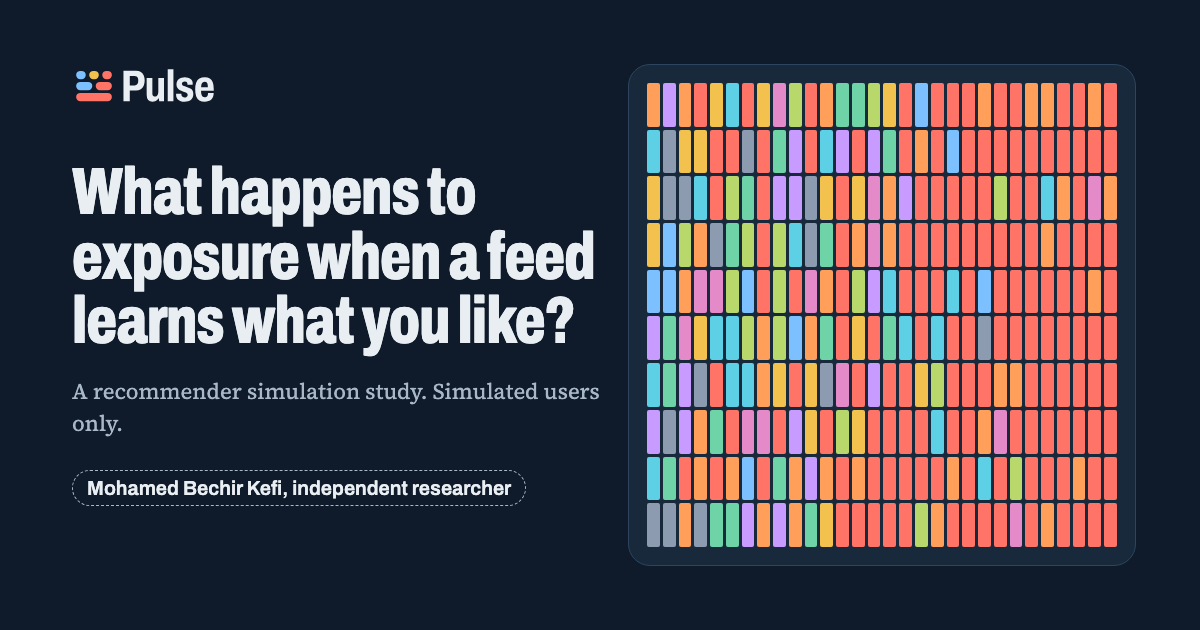
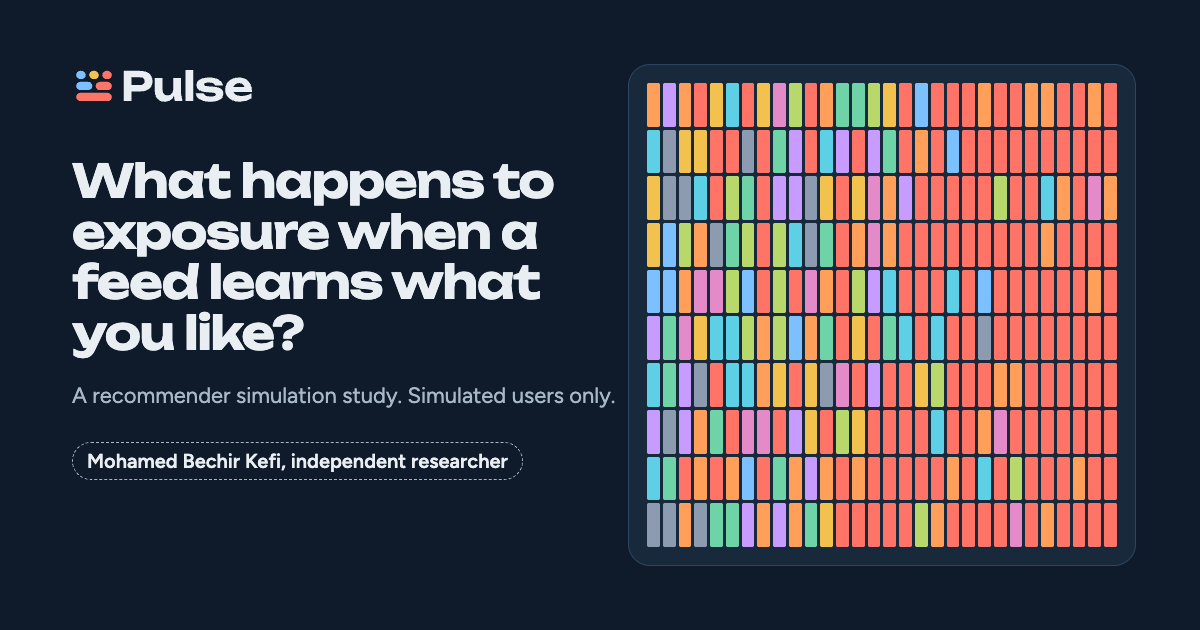
Demo: unique typeface pair across the labs (owner request 2026-11-26)

diff --git a/demo/src/style.css b/demo/src/style.css
@@ -9,8 +9,9 @@
   --conf: #7cc0ff; --expl: #f2c14e; --reg: #a9b8c6; --assume: #6fd3a8; --sand: #e58ac8;
   --h0: #e6eef4; --h1: #c4d6e6; --h2: #9dbcd8; --h3: #7099c0; --h4: #2e557f; --h5: #1a3a5e;
   --ink: #0f1b2a; --error: #ffb3ab;
-  --display: "Archivo Variable", "Arial Narrow", sans-serif;
-  --read: "Source Serif 4 Variable", Georgia, serif;
+  --display: "Unbounded Variable", "Arial Black", sans-serif;
+  --ui: "Figtree Variable", "Helvetica Neue", Arial, sans-serif;
+  --read: var(--ui);
   --ease-out: cubic-bezier(0.23, 1, 0.32, 1);
   --ease-in-out: cubic-bezier(0.77, 0, 0.175, 1);
   --tp0: #7cc0ff; --tp1: #f2c14e; --tp2: #6fd3a8; --tp3: #c79bff; --tp4: #ff7466;
@@ -19,13 +20,13 @@
 }
 * { box-sizing: border-box; }
 html { -webkit-text-size-adjust: 100%; scroll-padding-top: 72px; background: var(--gallery); }
-body { margin: 0; background: var(--gallery); color: var(--fg); font: 400 1.0625rem/1.65 var(--read); font-optical-sizing: auto; }
-h1, h2, h3 { font-family: var(--display); line-height: 1.1; letter-spacing: -0.01em; text-wrap: balance; }
-h2 { font-size: clamp(1.75rem, 3.4vw, 2.4rem); font-weight: 760; font-stretch: 78%; margin: 0 0 1rem; }
-h3 { font-size: 1.3rem; font-weight: 680; font-stretch: 88%; margin: 1.6rem 0 0.6rem; }
+body { margin: 0; background: var(--gallery); color: var(--fg); font: 400 1.0625rem/1.62 var(--read); }
+h1, h2, h3 { font-family: var(--display); line-height: 1.15; letter-spacing: -0.015em; text-wrap: balance; }
+h2 { font-size: clamp(1.4rem, 2.6vw, 1.9rem); font-weight: 600; margin: 0 0 1rem; }
+h3 { font-size: 1.08rem; font-weight: 560; line-height: 1.3; letter-spacing: -0.01em; margin: 1.6rem 0 0.6rem; }
 p, li, dd, figcaption { max-width: 68ch; }
 a { color: var(--cue); text-underline-offset: 0.18em; text-decoration-thickness: 1px; }
-code { font-family: var(--display); font-size: 0.92em; font-stretch: 92%; color: var(--fg); background: var(--rack-2); padding: 0.05em 0.35em; border-radius: 5px; overflow-wrap: anywhere; }
+code { font-family: var(--ui); font-size: 0.92em; color: var(--fg); background: var(--rack-2); padding: 0.05em 0.35em; border-radius: 5px; overflow-wrap: anywhere; }
 :focus-visible { outline: 2px solid var(--cue); outline-offset: 3px; border-radius: 4px; }
 .wrap { max-width: 74rem; margin: 0 auto; padding: 0 16px; }
 @media (min-width: 48rem) { .wrap { padding: 0 32px; } }
@@ -38,7 +39,7 @@ code { font-family: var(--display); font-size: 0.92em; font-stretch: 92%; color:
 @media (min-width: 48rem) { .topbar-in { padding: 0 32px; } }
 .brand { display: inline-flex; align-items: center; min-height: 44px; flex: none; }
 .brand img { display: block; height: 22px; width: auto; }
-.topbar nav { display: flex; gap: 0.15rem; overflow-x: auto; scrollbar-width: none; margin-left: auto; font: 560 0.92rem/1 var(--display); font-stretch: 92%; }
+.topbar nav { display: flex; gap: 0.15rem; overflow-x: auto; scrollbar-width: none; margin-left: auto; font: 560 0.92rem/1 var(--ui); }
 .topbar nav::-webkit-scrollbar { display: none; }
 .topbar nav a { color: var(--muted); text-decoration: none; padding: 0 0.7rem; min-height: 44px; display: inline-flex; align-items: center; border-radius: 8px; white-space: nowrap; transition: color 160ms ease, background-color 160ms ease; }
 @media (hover: hover) and (pointer: fine) { .topbar nav a:hover { color: var(--fg); background: var(--rack); } }
@@ -48,19 +49,19 @@ code { font-family: var(--display); font-size: 0.92em; font-stretch: 92%; color:
 .hero { padding: clamp(2rem, 6vw, 4.5rem) 0 clamp(2.5rem, 6vw, 4rem); border-bottom: 1px solid var(--edge-soft); }
 .hero-in { display: grid; gap: clamp(1.75rem, 4vw, 3.5rem); align-items: center; }
 @media (min-width: 64rem) { .hero-in { grid-template-columns: minmax(0, 5fr) minmax(0, 6fr); } }
-.kicker { margin: 0 0 0.9rem; color: var(--muted); font: 560 1rem/1.3 var(--display); font-stretch: 92%; }
-.hero h1 { font-size: clamp(2.3rem, 5.2vw, 4rem); font-weight: 800; font-stretch: 72%; line-height: 0.98; margin: 0 0 1.25rem; letter-spacing: -0.015em; }
+.kicker { margin: 0 0 0.9rem; color: var(--muted); font: 560 1rem/1.3 var(--ui); }
+.hero h1 { font-size: clamp(1.75rem, 3.5vw, 2.7rem); font-weight: 640; line-height: 1.1; margin: 0 0 1.25rem; letter-spacing: -0.018em; }
 .answer { font-size: clamp(1.15rem, 1.8vw, 1.3rem); line-height: 1.55; margin: 0 0 1rem; }
 .dek { color: var(--muted); margin: 0; font-size: 1rem; }
 
 .monitor { margin: 0; background: var(--rack); border: 1px solid var(--edge); border-radius: 14px; padding: 14px; }
 .monitor-bar { display: flex; flex-wrap: wrap; gap: 0.6rem 1rem; align-items: center; justify-content: space-between; margin-bottom: 12px; }
 .segmented { position: relative; display: grid; grid-template-columns: 1fr 1fr; background: var(--gallery); border: 1px solid var(--edge); border-radius: 10px; padding: 3px; flex: 1 1 18rem; max-width: 24rem; }
-.segmented button { position: relative; z-index: 1; min-height: 40px; border: 0; background: transparent; color: var(--muted); font: 600 0.95rem/1.1 var(--display); font-stretch: 90%; border-radius: 7px; cursor: pointer; padding: 0 0.6rem; transition: color 200ms ease; }
+.segmented button { position: relative; z-index: 1; min-height: 40px; border: 0; background: transparent; color: var(--muted); font: 600 0.95rem/1.1 var(--ui); border-radius: 7px; cursor: pointer; padding: 0 0.6rem; transition: color 200ms ease; }
 .segmented button[aria-pressed="true"] { color: var(--fg); }
 .seg-ind { position: absolute; z-index: 0; top: 3px; bottom: 3px; left: 3px; width: calc(50% - 3px); border-radius: 7px; background: rgba(124, 192, 255, 0.2); box-shadow: inset 0 -3px 0 var(--cue); transition: transform 240ms var(--ease-out), background-color 240ms ease, box-shadow 240ms ease; }
 .seg-ind.similarity { transform: translateX(100%); background: rgba(255, 116, 102, 0.2); box-shadow: inset 0 -3px 0 var(--tally); }
-.illus-tag { margin: 0; display: inline-flex; align-items: center; gap: 0.45rem; font: 560 0.88rem/1.2 var(--display); color: var(--fg); border: 1px dashed var(--muted); border-radius: 999px; padding: 0.3rem 0.7rem; }
+.illus-tag { margin: 0; display: inline-flex; align-items: center; gap: 0.45rem; font: 560 0.88rem/1.2 var(--ui); color: var(--fg); border: 1px dashed var(--muted); border-radius: 999px; padding: 0.3rem 0.7rem; }
 .lamp { width: 0.55rem; height: 0.55rem; border-radius: 50%; background: var(--expl); flex: none; }
 
 .wall { position: relative; display: grid; grid-template-columns: repeat(24, minmax(0, 1fr)); gap: 3px; background: var(--gallery); border-radius: 8px; padding: 6px; overflow: hidden; }
@@ -90,14 +91,14 @@ main > section.wrap, main > .wrap > section { padding-top: clamp(2.5rem, 6vw, 4.
 .meters-fig { margin: 1.5rem 0 0; }
 .meters { display: grid; gap: 10px; background: var(--rack); border: 1px solid var(--edge); border-radius: 14px; padding: clamp(14px, 3vw, 26px); }
 .meter { display: grid; grid-template-columns: minmax(7.5rem, 11rem) minmax(0, 1fr) auto; gap: 0.5rem 1rem; align-items: center; }
-.meter-name { font: 640 1.02rem/1.2 var(--display); font-stretch: 88%; }
+.meter-name { font: 640 1.02rem/1.2 var(--ui); }
 .meter-track { position: relative; height: 18px; border-radius: 4px; background: var(--gallery); overflow: hidden;
   background-image: repeating-linear-gradient(90deg, transparent 0 calc(10% - 2px), var(--rack) calc(10% - 2px) 10%); }
 .meter-fill { position: absolute; inset: 0; transform-origin: 0 50%; transform: scaleX(var(--v)); background: var(--fg); border-radius: 4px; }
 .m-random .meter-fill { background: var(--cue); }
 .m-similarity .meter-fill { background: var(--tally); }
 .m-popularity .meter-fill, .m-bandit .meter-fill, .m-mmr .meter-fill { background: #8fa4b9; }
-.meter-val { font: 600 1rem/1 var(--display); font-variant-numeric: tabular-nums; white-space: nowrap; }
+.meter-val { font: 600 1rem/1 var(--ui); font-variant-numeric: tabular-nums; white-space: nowrap; }
 .meters.armed .meter-fill { transition: transform 700ms var(--ease-out); transition-delay: calc(var(--i) * 70ms + 80ms); }
 .meters.armed:not(.in) .meter-fill { transform: scaleX(0); }
 @media (max-width: 36rem) {
@@ -107,7 +108,7 @@ main > section.wrap, main > .wrap > section { padding-top: clamp(2.5rem, 6vw, 4.
 .meters-fig figcaption, .figure figcaption { color: var(--muted); font-size: 0.95rem; margin-top: 0.8rem; }
 
 /* Label lamps: sentence case, one lamp colour and one outline style per kind. */
-.label-tag { display: inline-flex; align-items: center; gap: 0.45rem; font: 600 0.86rem/1.2 var(--display); font-stretch: 92%; color: var(--fg); padding: 0.28rem 0.65rem 0.28rem 0.55rem; border-radius: 999px; border: 1px solid var(--edge); background: var(--gallery); margin: 0 0.5rem 0.3rem 0; vertical-align: middle; letter-spacing: 0; }
+.label-tag { display: inline-flex; align-items: center; gap: 0.45rem; font: 600 0.86rem/1.2 var(--ui); color: var(--fg); padding: 0.28rem 0.65rem 0.28rem 0.55rem; border-radius: 999px; border: 1px solid var(--edge); background: var(--gallery); margin: 0 0.5rem 0.3rem 0; vertical-align: middle; letter-spacing: 0; }
 .label-tag::before { content: ""; width: 0.55rem; height: 0.55rem; border-radius: 50%; background: currentColor; flex: none; }
 .lab-conf { border-color: var(--conf); } .lab-conf::before { background: var(--conf); }
 .lab-expl { border: 1px dashed var(--expl); } .lab-expl::before { background: var(--expl); }
@@ -127,11 +128,11 @@ h2 .label-tag, h3 .label-tag { font-size: 0.82rem; }
 .lab-reg-panel::before { background: repeating-linear-gradient(180deg, var(--reg) 0 3px, transparent 3px 7px); }
 .lab-expl-panel { border-style: dashed; border-color: #4a5d72; }
 .lab-reg-panel { border-style: dotted; border-color: #5a6d82; }
-.panel h3 { margin: 0.5rem 0 0.4rem; font-size: 1.35rem; }
+.panel h3 { margin: 0.5rem 0 0.4rem; font-size: clamp(1rem, 1.6vw, 1.12rem); }
 .panel > p { margin: 0.45rem 0; }
 .panel.error { color: var(--error); border-color: var(--error); }
 .panel.error::before { background: var(--error); }
-.badge { display: inline-block; font: 560 0.88rem/1.3 var(--display); font-stretch: 92%; color: var(--muted); border: 1px solid var(--edge); border-radius: 6px; padding: 0.15rem 0.5rem; }
+.badge { display: inline-block; font: 560 0.88rem/1.3 var(--ui); color: var(--muted); border: 1px solid var(--edge); border-radius: 6px; padding: 0.15rem 0.5rem; }
 .panel .meta { margin-top: 0.8rem; }
 
 /* Tables. */
@@ -139,9 +140,9 @@ h2 .label-tag, h3 .label-tag { font-size: 0.82rem; }
 table { border-collapse: collapse; width: 100%; font-variant-numeric: tabular-nums; }
 caption { text-align: left; color: var(--muted); padding: 0 0 0.6rem; font-size: 0.95rem; }
 th, td { text-align: left; padding: 0.55rem 0.7rem; border-bottom: 1px solid var(--edge-soft); vertical-align: middle; }
-thead th { font: 600 0.9rem/1.25 var(--display); font-stretch: 92%; color: var(--muted); border-bottom-color: var(--edge); }
+thead th { font: 600 0.9rem/1.25 var(--ui); color: var(--muted); border-bottom-color: var(--edge); }
 tbody th { font-weight: 400; font-size: 0.98rem; }
-td { font-family: var(--display); font-size: 1rem; }
+td { font-family: var(--ui); font-size: 1rem; }
 td.num { white-space: nowrap; font-weight: 600; }
 .glyph-col { width: 172px; }
 svg.glyph { display: block; }
@@ -151,7 +152,7 @@ svg .pt { fill: var(--fg); }
 svg .grid { stroke: var(--edge-soft); stroke-width: 1; }
 svg .band { fill: var(--band); }
 svg .frozen { stroke: var(--muted); stroke-width: 1.2; stroke-dasharray: 5 4; }
-svg .tick, svg .axis { fill: currentColor; color: var(--muted); font: 500 12px var(--display); font-variant-numeric: tabular-nums; }
+svg .tick, svg .axis { fill: currentColor; color: var(--muted); font: 500 12px var(--ui); font-variant-numeric: tabular-nums; }
 svg .axis { color: var(--fg); font-size: 13px; }
 svg .line { fill: none; stroke-width: 2; }
 .sa .line, .line.sa { stroke: var(--a); } .sa .ci { stroke: var(--a); } .sa .pt { fill: var(--a); }
@@ -165,7 +166,7 @@ svg .mark { fill: none; stroke: var(--fg); stroke-width: 1.5; }
 .figure figcaption { max-width: 68ch; }
 svg.chart { width: 100%; height: auto; max-width: 760px; display: block; }
 .lr-fig svg.chart { background: var(--rack); border: 1px solid var(--edge-soft); border-radius: 14px; }
-.legend { font: 500 0.92rem/1.4 var(--display); color: var(--muted); display: flex; flex-wrap: wrap; gap: 0.35rem 1rem; align-items: center; }
+.legend { font: 500 0.92rem/1.4 var(--ui); color: var(--muted); display: flex; flex-wrap: wrap; gap: 0.35rem 1rem; align-items: center; }
 .key { font-weight: 640; }
 .key.sa { color: var(--a); } .key.sb { color: var(--b); }
 .sw { display: inline-block; width: 1rem; height: 1rem; border-radius: 3px; vertical-align: middle; border: 1px solid var(--edge); }
@@ -185,9 +186,9 @@ table.heat td { text-align: center; white-space: nowrap; border-radius: 6px; fon
 .lr-fig.armed:not(.in) .series { opacity: 0; }
 
 dl.assumptions div { display: grid; grid-template-columns: minmax(9rem, 1fr) 2fr; gap: 0.75rem; padding: 0.6rem 0; border-bottom: 1px solid var(--edge-soft); }
-dl.assumptions dt { font: 640 1rem/1.4 var(--display); font-stretch: 92%; } dl.assumptions dd { margin: 0; }
+dl.assumptions dt { font: 640 1rem/1.4 var(--ui); } dl.assumptions dd { margin: 0; }
 details { margin-top: 1rem; }
-summary { cursor: pointer; font: 600 1rem/1.4 var(--display); min-height: 44px; display: flex; align-items: center; }
+summary { cursor: pointer; font: 600 1rem/1.4 var(--ui); min-height: 44px; display: flex; align-items: center; }
 ul { padding-left: 1.2rem; }
 li { margin: 0.3rem 0; }
 
@@ -195,10 +196,10 @@ li { margin: 0.3rem 0; }
 .sandbox { background: var(--rack); border: 1px solid var(--edge); border-radius: 18px; padding: clamp(1rem, 3vw, 2rem); margin: clamp(2.5rem, 6vw, 4.5rem) 0 0; }
 .sandbox > h2 { margin-top: 0.4rem; }
 .controls { display: grid; grid-template-columns: repeat(auto-fill, minmax(13rem, 1fr)); gap: 0.9rem 1rem; align-items: end; margin: 1.4rem 0 0.6rem; padding: 1rem; background: var(--gallery); border-radius: 12px; border: 1px solid var(--edge-soft); }
-.controls label { display: flex; flex-direction: column; gap: 0.3rem; font: 600 0.92rem/1.2 var(--display); font-stretch: 92%; color: var(--muted); }
+.controls label { display: flex; flex-direction: column; gap: 0.3rem; font: 600 0.92rem/1.2 var(--ui); color: var(--muted); }
 .controls .wide { grid-column: 1 / -1; }
 .controls .buttons { display: flex; gap: 0.6rem; flex-wrap: wrap; grid-column: 1 / -1; }
-input, button, select { font: 500 1rem/1.2 var(--display); padding: 0.55rem 0.75rem; min-height: 44px; color: var(--fg); background: var(--rack); border: 1px solid var(--edge); border-radius: 10px; max-width: 100%; }
+input, button, select { font: 500 1rem/1.2 var(--ui); padding: 0.55rem 0.75rem; min-height: 44px; color: var(--fg); background: var(--rack); border: 1px solid var(--edge); border-radius: 10px; max-width: 100%; }
 select { min-width: 0; width: 100%; }
 button { cursor: pointer; font-weight: 640; transition: transform 140ms var(--ease-out), background-color 160ms ease, border-color 160ms ease; }
 button:active:not(:disabled) { transform: scale(0.97); }
@@ -209,18 +210,18 @@ input[aria-invalid="true"] { border-color: var(--error); }
 .run-progress { display: grid; gap: 0.4rem; }
 .run-progress .bar { display: block; height: 4px; border-radius: 2px; background: var(--gallery); overflow: hidden; }
 .run-progress .fill { display: block; height: 100%; background: var(--tally); transform-origin: 0 50%; transition: transform 160ms linear; }
-.sandbox-out { font: 600 1.02rem/1.5 var(--display); min-height: 1.6em; }
+.sandbox-out { font: 600 1.02rem/1.5 var(--ui); min-height: 1.6em; }
 .sandbox-result { animation: settle 360ms var(--ease-out) both; }
 @keyframes settle { from { opacity: 0; transform: translateY(6px); } }
-.step-ctl label { display: flex; flex-direction: column; gap: 0.4rem; font: 600 1rem/1.2 var(--display); }
+.step-ctl label { display: flex; flex-direction: column; gap: 0.4rem; font: 600 1rem/1.2 var(--ui); }
 .step-ctl input { width: 100%; padding: 0; accent-color: var(--tally); }
 .feeds, .pair { display: grid; grid-template-columns: 1fr 1fr; gap: 1rem; margin-top: 1rem; }
 @media (max-width: 44rem) { .feeds, .pair { grid-template-columns: 1fr; } .key-legend div { grid-template-columns: 1fr; gap: 0.2rem; } }
 .feed { border: 1px solid var(--edge-soft); border-top: 4px solid var(--a); border-radius: 12px; padding: 0.8rem 0.9rem; background: var(--gallery); }
 .feed-b { border-top-color: var(--b); }
-.feed h3 { margin: 0.1rem 0 0.3rem; font-size: 1.15rem; }
+.feed h3 { margin: 0.1rem 0 0.3rem; font-size: 0.98rem; }
 .cards { list-style: none; margin: 0.5rem 0 0; padding: 0; display: grid; gap: 4px; counter-reset: pos; }
-.card { display: grid; grid-template-columns: 1.6rem 1fr auto; gap: 0.1rem 0.6rem; align-items: center; padding: 0.4rem 0.6rem; background: var(--rack); border-radius: 8px; font: 500 0.95rem/1.3 var(--display); counter-increment: pos; margin: 0; max-width: none; }
+.card { display: grid; grid-template-columns: 1.6rem 1fr auto; gap: 0.1rem 0.6rem; align-items: center; padding: 0.4rem 0.6rem; background: var(--rack); border-radius: 8px; font: 500 0.95rem/1.3 var(--ui); counter-increment: pos; margin: 0; max-width: none; }
 .sandbox-result .card { animation: settle 320ms var(--ease-out) both; animation-delay: calc(var(--j) * 40ms + 120ms); }
 .card::before { content: counter(pos); color: var(--muted); font-variant-numeric: tabular-nums; }
 .card .topic { font-weight: 640; display: inline-flex; align-items: center; gap: 0.45rem; }
@@ -242,7 +243,7 @@ svg.heatplate .mark { stroke: var(--tally); stroke-width: 2; }
 .cmd code { background: none; padding: 0; overflow-wrap: normal; font-size: 0.95rem; line-height: 1.7; }
 
 footer.site { margin-top: clamp(3rem, 8vw, 6rem); padding: 2.5rem 0 3rem; border-top: 1px solid var(--edge-soft); color: var(--muted); font-size: 0.95rem; }
-.foot-links { list-style: none; padding: 0; display: flex; flex-wrap: wrap; gap: 0 1.4rem; font: 600 1rem/1.2 var(--display); }
+.foot-links { list-style: none; padding: 0; display: flex; flex-wrap: wrap; gap: 0 1.4rem; font: 600 1rem/1.2 var(--ui); }
 .foot-links a { display: inline-flex; align-items: center; min-height: 44px; }
 
 @media (max-width: 44rem) {

diff --git a/demo/src/fonts.css b/demo/src/fonts.css
@@ -1,20 +1,19 @@
 /* SPDX-License-Identifier: LicenseRef-PULSE-NC-Research-1.0 */
-/* Self-hosted fonts (Fontsource packages, SIL Open Font License v1.1), Latin subset only.
-   Archivo Variable: weight and width axes. Source Serif 4 Variable: weight axis. */
+/* Self-hosted fonts (Fontsource packages, SIL Open Font License v1.1), Latin subset only, weight axis.
+   Unbounded Variable: display (headings, wordmark). Figtree Variable: reading text, interface and tabular figures. */
 @font-face {
-  font-family: "Archivo Variable";
-  font-style: normal;
-  font-display: swap;
-  font-weight: 100 900;
-  font-stretch: 62% 125%;
-  src: url("../node_modules/@fontsource-variable/archivo/files/archivo-latin-standard-normal.woff2") format("woff2-variations");
-  unicode-range: U+0000-00FF, U+0131, U+0152-0153, U+02BB-02BC, U+02C6, U+02DA, U+02DC, U+0304, U+0308, U+0329, U+2000-206F, U+20AC, U+2122, U+2191, U+2193, U+2212, U+2215, U+FEFF, U+FFFD;
-}
-@font-face {
-  font-family: "Source Serif 4 Variable";
+  font-family: "Unbounded Variable";
   font-style: normal;
   font-display: swap;
   font-weight: 200 900;
-  src: url("../node_modules/@fontsource-variable/source-serif-4/files/source-serif-4-latin-wght-normal.woff2") format("woff2-variations");
+  src: url("../node_modules/@fontsource-variable/unbounded/files/unbounded-latin-wght-normal.woff2") format("woff2-variations");
+  unicode-range: U+0000-00FF, U+0131, U+0152-0153, U+02BB-02BC, U+02C6, U+02DA, U+02DC, U+0304, U+0308, U+0329, U+2000-206F, U+20AC, U+2122, U+2191, U+2193, U+2212, U+2215, U+FEFF, U+FFFD;
+}
+@font-face {
+  font-family: "Figtree Variable";
+  font-style: normal;
+  font-display: swap;
+  font-weight: 300 900;
+  src: url("../node_modules/@fontsource-variable/figtree/files/figtree-latin-wght-normal.woff2") format("woff2-variations");
   unicode-range: U+0000-00FF, U+0131, U+0152-0153, U+02BB-02BC, U+02C6, U+02DA, U+02DC, U+0304, U+0308, U+0329, U+2000-206F, U+20AC, U+2122, U+2191, U+2193, U+2212, U+2215, U+FEFF, U+FFFD;
 }

diff --git a/demo/src/App.tsx b/demo/src/App.tsx
@@ -107,7 +107,7 @@ cd demo && npm ci && npm run build && npm run preview`}</code></pre>
           </p>
           <p>An AI system was used as a research and development assistant and is not an author.</p>
           <p>
-            Type: Archivo and Source Serif 4, both under the SIL Open Font License, self-hosted from the Fontsource
+            Type: Unbounded and Figtree, both under the SIL Open Font License, self-hosted from the Fontsource
             packages.
           </p>
         </div>

diff --git a/demo/tools/build_logo.py b/demo/tools/build_logo.py
@@ -1,7 +1,7 @@
 # SPDX-License-Identifier: LicenseRef-PULSE-NC-Research-1.0
-# Usage (needs fontTools and brotli): python3 -I tools/build_logo.py node_modules/@fontsource-variable/archivo/files/archivo-latin-standard-normal.woff2 public/brand
+# Usage (needs fontTools and brotli): python3 -I tools/build_logo.py node_modules/@fontsource-variable/unbounded/files/unbounded-latin-wght-normal.woff2 public/brand
 import re
-# Builds the PULSE mark and lockup SVGs. Wordmark outlined from Archivo (OFL) at wght 720, wdth 78.
+# Builds the PULSE mark and lockup SVGs. Wordmark outlined from Unbounded (OFL) at wght 640.
 import sys, os
 from fontTools.ttLib import TTFont
 from fontTools.varLib.instancer import instantiateVariableFont
@@ -10,7 +10,7 @@ from fontTools.pens.transformPen import TransformPen
 from fontTools.pens.boundsPen import BoundsPen
 font_path, out = sys.argv[1], sys.argv[2]
 f = TTFont(font_path)
-f = instantiateVariableFont(f, {"wght": 720, "wdth": 78})
+f = instantiateVariableFont(f, {"wght": 640})
 gs = f.getGlyphSet(); cmap = f.getBestCmap(); upm = f["head"].unitsPerEm
 cap = f["OS/2"].sCapHeight
 TOPIC_A, TOPIC_B, TOPIC_C, TOPIC_D, TOPIC_E = "#7CC0FF", "#F2C14E", "#6FD3A8", "#C79BFF", "#FF7466"

diff --git a/demo/DESIGN.md b/demo/DESIGN.md
@@ -38,11 +38,19 @@ where a topic is shown (monitor wall, feed cards). Label kinds keep separate lam
 
 ## Type
 
-- **Archivo Variable** (wdth 62 to 125, wght 100 to 900), display and interface: condensed widths for
-  headings and the wordmark, like broadcast lower thirds; normal width for controls, labels and tabular
-  figures in tables.
-- **Source Serif 4 Variable** (wght), long-form reading: the verdicts, captions and method prose, at
-  18 px with a line height of 1.65 on the dark ground.
+- **Unbounded Variable** (wght 200 to 900), display: headings and the wordmark. A wide, rounded
+  geometric face in the manner of a station ident or an on-screen channel bug; its soft terminals echo the
+  rounded channel bars of the mark. Set at 560 to 640 with tight tracking (-0.01 to -0.018 em) and kept
+  small, because the face is very wide: hero h1 28 to 43 px, h2 22 to 30 px, h3 17 px.
+- **Figtree Variable** (wght 300 to 900), everything else: reading text at 17 px with a line height of
+  1.62, the interface (navigation, controls, labels, buttons) and every number, with tabular figures
+  (`tnum`) in tables, meters, ticks and the sandbox. A clean geometric sans that reads calmly on the dark
+  ground next to the loud display face.
+
+Changed on 2026-11-26 (owner request: no two lab demos share a family). The previous pair was Archivo
+(condensed, lower-third style) and Source Serif 4, both now used by other demos. The control-room
+direction stays; the condensed lower-third reading became the wide channel-ident reading, and the
+wordmark was re-outlined from Unbounded.
 
 ## Layout
 
@@ -103,7 +111,7 @@ same idea drawn in the logo (three segments, then two, then one bar).
   topic hues on the monitor wall, with cue blue and tally coral as a pair for the two feeds.
 - First draft put an all-caps tracked eyebrow above every section and kept the uppercase label tags.
   Revised: sentence case everywhere; label kinds are lamp-and-outline pills in sentence case.
-- First draft used a monospace face for numbers. Revised: tabular figures of Archivo; no mono.
+- First draft used a monospace face for numbers. Revised: tabular figures of the text face (now Figtree); no mono.
 - First draft chopped results into identical rounded cards. Revised: experiment panels are console
   modules with a lamp strip on the left whose style encodes the label kind (solid, dashed, dotted);
   radius differs by level (console 14 px, controls 10 px, lamps round).
@@ -111,7 +119,7 @@ same idea drawn in the logo (three segments, then two, then one bar).
   or in answer to an action.
 - Against the other demos: SCROLL is a stopwatch and film strip, SWARM a dusk murmuration, MARKET a
   ticker tape, ECHO a record sleeve. PULSE keeps the vision-mixer grid of topic colours and the
-  lower-third condensed type, which none of them uses.
+  wide channel-ident display type, which none of them uses.
 
 ## Changes made during the build (screenshot critique)
 

diff --git a/progress.md b/progress.md
@@ -405,3 +405,20 @@ New: `demo/DESIGN.md`, `demo/src/Hero.tsx`, `demo/src/fonts.css`, `demo/tools/bu
 
 ### Next action
 The coordinator deploys `demo/dist` when the owner decides. No push, no deploy from this session.
+
+## 2026-11-26: demo typefaces unique across the labs (owner request)
+
+**Starting state:** branch main, clean. Authority: owner request of 2026-11-26, brief `labs/_shared/FONT-UNIQUE-brief.md` (no two lab demos share a family). Scope: `demo/` only; no number, result, export, fixture, test expectation or accessible name changed.
+
+### Commands and actual outputs
+- Fonts (npm cache in the session scratch): `npm uninstall @fontsource-variable/archivo @fontsource-variable/source-serif-4`: "removed 2 packages"; `npm_config_before=2026-11-12 npm install --save-exact @fontsource-variable/unbounded@5.3.0 @fontsource-variable/figtree@5.3.0`: "added 2 packages". Both have `tnum`; Figtree carries every number.
+- Type: Unbounded (display: headings, wordmark) at 560 to 640, sizes cut because the face is very wide (hero h1 28 to 43 px, h2 22 to 30 px, h3 17 px); Figtree for reading text, interface, tables and charts. `font-stretch` rules removed (no width axis now).
+- Logo: `tools/build_logo.py` now outlines the wordmark from Unbounded at wght 640; the four lockups were rewritten, mark and favicon unchanged (so `favicon-32.png` is unchanged). `svg_audit.py` on all eight SVGs: 100/100 each. Open Graph image re-rendered with Chrome headless (1200 by 630) from the same scratch generator with the new fonts.
+- `npm test`: "Tests 28 passed (28)". `npm run build`: built, 500 KB on disk, 477,035 bytes. `node tools/a11y_check.mjs dist`: "A11Y-CHECK PASS". `tests/test_demo_export.py`: "8 passed".
+- Screenshots (local port 5244, server stopped afterwards): desktop 1440 and phone 390 full page, Chrome headless over CDP. First pass: heading tracking at -0.025 em closed the word spaces of the wide face, opened to -0.018 em; panel titles wrapped to four lines on phones, given a smaller minimum size.
+
+### Files changed
+`demo/package.json`, `demo/package-lock.json`, `demo/src/fonts.css`, `demo/src/style.css`, `demo/src/App.tsx` (font credit line), `demo/tools/build_logo.py`, `demo/public/brand/pulse-lockup*.svg`, `demo/public/brand/og.png`, `demo/DESIGN.md`, `demo/README.md`, `progress.md`.
+
+### Next action
+The coordinator deploys the rebuilt demo when the owner approves.

diff --git a/demo/README.md b/demo/README.md
@@ -28,9 +28,9 @@ Repository: https://github.com/mohamedbechirkefi/pulse-feed-ranking
 
 ## Brand, type and third-party notes
 
-The page has its own identity, the broadcast control room (plan and review in `DESIGN.md`). Brand files are in `public/brand/`: the mark (`pulse-mark.svg`, with `-mono` and `-on-dark` versions), the lockup (`pulse-lockup.svg`, with `-light`, `-mono` and `-on-dark` versions), `favicon.svg`, `favicon-32.png` and the Open Graph image `og.png` (1200 by 630). The mark is drawn by hand as paths; the wordmark is outlined from Archivo by `tools/build_logo.py`.
+The page has its own identity, the broadcast control room (plan and review in `DESIGN.md`). Brand files are in `public/brand/`: the mark (`pulse-mark.svg`, with `-mono` and `-on-dark` versions), the lockup (`pulse-lockup.svg`, with `-light`, `-mono` and `-on-dark` versions), `favicon.svg`, `favicon-32.png` and the Open Graph image `og.png` (1200 by 630). The mark is drawn by hand as paths; the wordmark is outlined from Unbounded (weight 640) by `tools/build_logo.py`.
 
 Fonts, self-hosted from Fontsource packages pinned in `package-lock.json` (Latin subset only, declared in `src/fonts.css`):
 
-- Archivo Variable, package `@fontsource-variable/archivo` v5.3.0, SIL Open Font License v1.1 (display, interface and tabular figures).
-- Source Serif 4 Variable, package `@fontsource-variable/source-serif-4` v5.3.1, SIL Open Font License v1.1 (reading text).
+- Unbounded Variable (The Unbounded Project Authors), package `@fontsource-variable/unbounded` v5.3.0, SIL Open Font License v1.1 (display: headings and the wordmark).
+- Figtree Variable (The Figtree Project Authors), package `@fontsource-variable/figtree` v5.3.0, SIL Open Font License v1.1 (reading text, interface and tabular figures).
